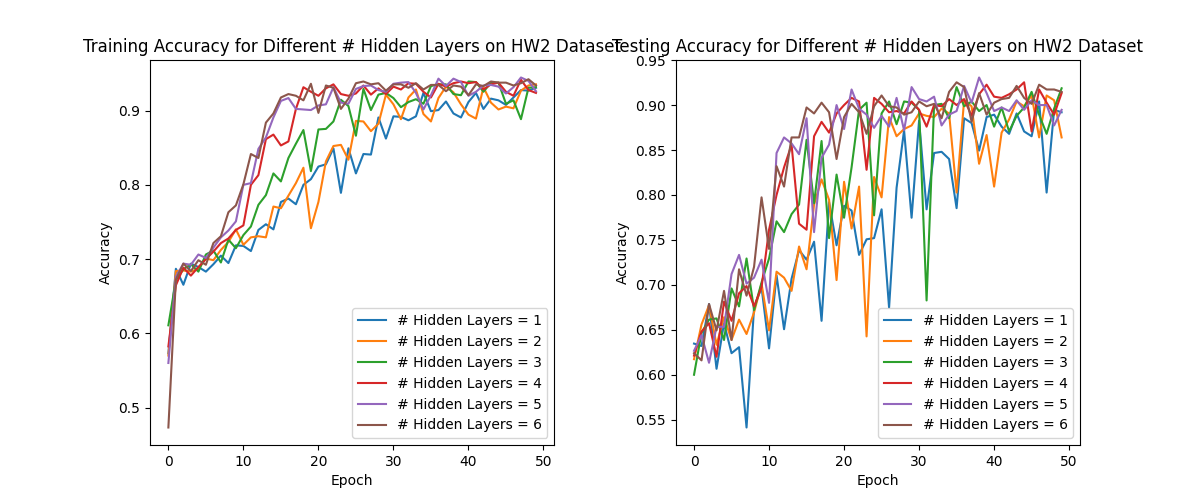
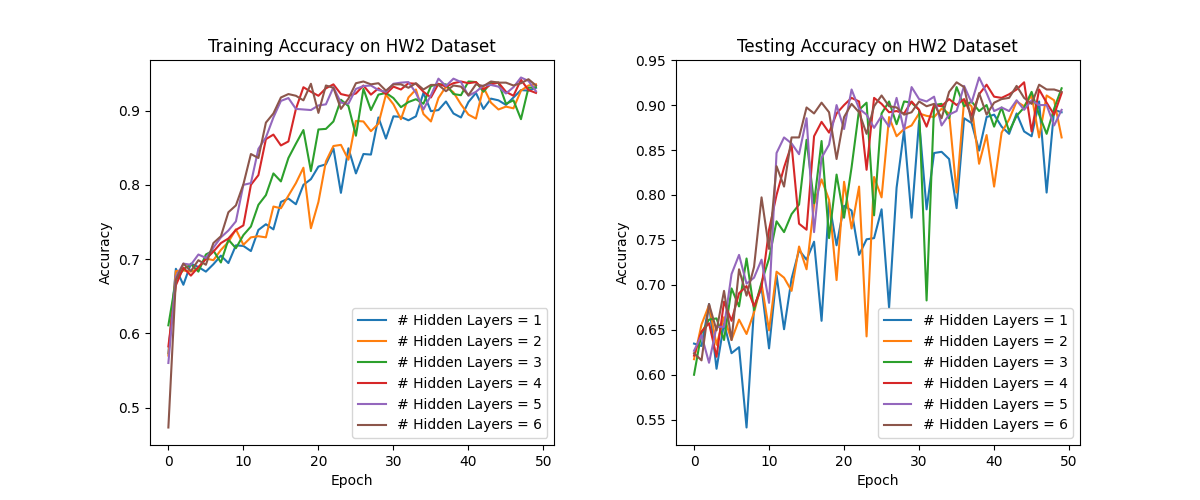
feat: HW3 - modify plots

Changed region(s): [[0.0617, 0.06, 0.9558, 0.12]]

diff --git a/HW3/plot.py b/HW3/plot.py
@@ -16,20 +16,20 @@ def plot_accuracy(history):
 
 def plot_part1():
     hidden_dim_list = [5, 10, 20, 50, 75, 100]
-    fig, axs = plt.subplots(2, 3, figsize=(15, 10))
+    fig, axs = plt.subplots(3, 2, figsize=(10, 12))
     fig.subplots_adjust(wspace=0.3, hspace=0.3)
+    fig.subplots_adjust(left=0.1, right=0.96, top=0.96, bottom=0.04)
     for i, hidden_dim in enumerate(hidden_dim_list):
         history_path = f"./history/hiddendim_{hidden_dim}_layer_1.pkl"
         history = torch.load(history_path)
         train_accuracy = [x["train_accuracy"] for x in history]
         test_accuracy = [x["test_accuracy"] for x in history]
-        axs[i//3, i%3].plot(train_accuracy, '-o', label="Training accuracy")
-        axs[i//3, i%3].plot(test_accuracy, '-o', label="Testing accuracy")
-        axs[i//3, i%3].set_title(f"# Neurons = {hidden_dim}")
-        axs[i//3, i%3].legend(loc="lower right")
-        axs[i//3, i%3].set_xlabel("Epoch")
-        axs[i//3, i%3].set_ylabel("Accuracy")
-    plt.suptitle("Accuracy for Different Number of Neurons")
+        axs[i//2, i%2].plot(train_accuracy, '-o', label="Training accuracy")
+        axs[i//2, i%2].plot(test_accuracy, '-o', label="Testing accuracy")
+        axs[i//2, i%2].set_title(f"# Neurons = {hidden_dim}")
+        axs[i//2, i%2].legend(loc="lower right")
+        axs[i//2, i%2].set_xlabel("Epoch")
+        axs[i//2, i%2].set_ylabel("Accuracy")
     plt.savefig("./plots/part1_1.png")
 
     fig2, axs2 = plt.subplots(1, 2, figsize=(12, 5))
@@ -55,6 +55,7 @@ def plot_part2():
     train_data_size_list = [10000, 20000, 30000, 60000]
     fig, axs = plt.subplots(2, 2, figsize=(10, 10))
     fig.subplots_adjust(wspace=0.3, hspace=0.3)
+    fig.subplots_adjust(left=0.1, right=0.96, top=0.96, bottom=0.04)
     for i, train_data_size in enumerate(train_data_size_list):
         history_path = f"./history/train_data_size_{train_data_size}.pkl"
         history = torch.load(history_path)
@@ -66,7 +67,6 @@ def plot_part2():
         axs[i//2, i%2].legend(loc="lower right")
         axs[i//2, i%2].set_xlabel("Epoch")
         axs[i//2, i%2].set_ylabel("Accuracy")
-    plt.suptitle("Accuracy for Different Number of Training Data")
     plt.savefig("./plots/part2_1.png")
     
     fig2, axs2 = plt.subplots(1, 2, figsize=(12, 5))
@@ -90,20 +90,20 @@ def plot_part2():
     
 def plot_part3():
     num_hidden_layers_list = [1, 2, 3, 4, 5]
-    fig, axs = plt.subplots(2, 3, figsize=(15, 10))
+    fig, axs = plt.subplots(3, 2, figsize=(10, 15))
     fig.subplots_adjust(wspace=0.3, hspace=0.3)
+    fig.subplots_adjust(left=0.1, right=0.96, top=0.96, bottom=0.04)
     for i, num_hidden_layers in enumerate(num_hidden_layers_list):
         history_path = f"./history/num_hidden_layers_{num_hidden_layers}.pkl"
         history = torch.load(history_path)
         train_accuracy = [x["train_accuracy"] for x in history]
         test_accuracy = [x["test_accuracy"] for x in history]
-        axs[i//3, i%3].plot(train_accuracy, '-o', label="Training accuracy")
-        axs[i//3, i%3].plot(test_accuracy, '-o', label="Testing accuracy")
-        axs[i//3, i%3].set_title(f"# Hidden Layers = {num_hidden_layers}")
-        axs[i//3, i%3].legend(loc="lower right")
-        axs[i//3, i%3].set_xlabel("Epoch")
-        axs[i//3, i%3].set_ylabel("Accuracy")
-    plt.suptitle("Accuracy for Different Number of Hidden Layers")
+        axs[i//2, i%2].plot(train_accuracy, '-o', label="Training accuracy")
+        axs[i//2, i%2].plot(test_accuracy, '-o', label="Testing accuracy")
+        axs[i//2, i%2].set_title(f"# Hidden Layers = {num_hidden_layers}")
+        axs[i//2, i%2].legend(loc="lower right")
+        axs[i//2, i%2].set_xlabel("Epoch")
+        axs[i//2, i%2].set_ylabel("Accuracy")
     plt.savefig("./plots/part3_1.png")
     
     fig2, axs2 = plt.subplots(1, 2, figsize=(12, 5))
@@ -127,20 +127,20 @@ def plot_part3():
 
 def plot_part4():
     num_hidden_layers_list = [1, 2, 3, 4, 5, 6]
-    fig, axs = plt.subplots(2, 3, figsize=(15, 10))
+    fig, axs = plt.subplots(3, 2, figsize=(10, 15))
     fig.subplots_adjust(wspace=0.3, hspace=0.3)
+    fig.subplots_adjust(left=0.1, right=0.96, top=0.96, bottom=0.04)
     for i, num_hidden_layers in enumerate(num_hidden_layers_list):
         history_path = f"./history/hw2_num_hidden_layers_{num_hidden_layers}.pkl"
         history = torch.load(history_path)
         train_accuracy = [x["train_accuracy"] for x in history]
         test_accuracy = [x["test_accuracy"] for x in history]
-        axs[i//3, i%3].plot(train_accuracy, '-o', label="Training accuracy")
-        axs[i//3, i%3].plot(test_accuracy, '-o', label="Testing accuracy")
-        axs[i//3, i%3].set_title(f"# Hidden Layers = {num_hidden_layers}")
-        axs[i//3, i%3].legend(loc="lower right")
-        axs[i//3, i%3].set_xlabel("Epoch")
-        axs[i//3, i%3].set_ylabel("Accuracy")
-    plt.suptitle("Accuracy for Different Number of Hidden Layers on HW2 Dataset")
+        axs[i//2, i%2].plot(train_accuracy, '-o', label="Training accuracy")
+        axs[i//2, i%2].plot(test_accuracy, '-o', label="Testing accuracy")
+        axs[i//2, i%2].set_title(f"# Hidden Layers = {num_hidden_layers}")
+        axs[i//2, i%2].legend(loc="lower right")
+        axs[i//2, i%2].set_xlabel("Epoch")
+        axs[i//2, i%2].set_ylabel("Accuracy")
     plt.savefig("./plots/part4_1.png")
     
     fig2, axs2 = plt.subplots(1, 2, figsize=(12, 5))
@@ -152,11 +152,11 @@ def plot_part4():
         test_accuracy = [x["test_accuracy"] for x in history]
         axs2[0].plot(train_accuracy, label=f"# Hidden Layers = {num_hidden_layers}")
         axs2[1].plot(test_accuracy, label=f"# Hidden Layers = {num_hidden_layers}")
-    axs2[0].set_title("Training Accuracy for Different # Hidden Layers on HW2 Dataset")
+    axs2[0].set_title("Training Accuracy on HW2 Dataset")
     axs2[0].legend()
     axs2[0].set_xlabel("Epoch")
     axs2[0].set_ylabel("Accuracy")
-    axs2[1].set_title("Testing Accuracy for Different # Hidden Layers on HW2 Dataset")
+    axs2[1].set_title("Testing Accuracy on HW2 Dataset")
     axs2[1].legend()
     axs2[1].set_xlabel("Epoch")
     axs2[1].set_ylabel("Accuracy")
